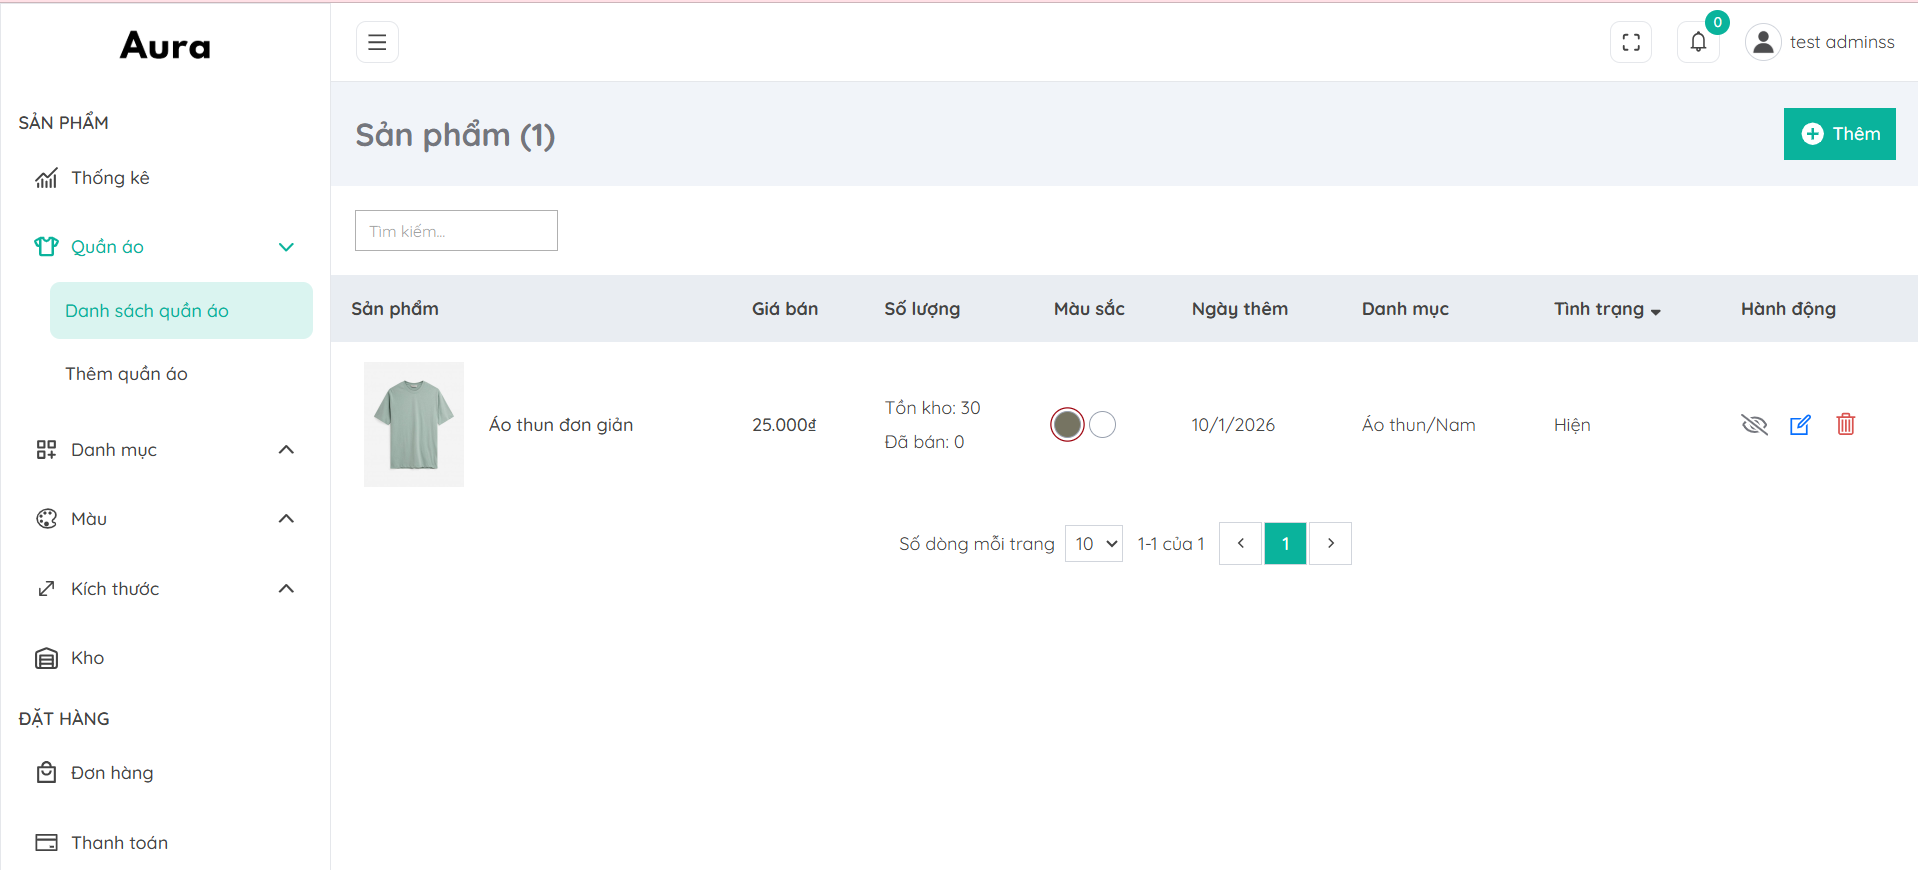
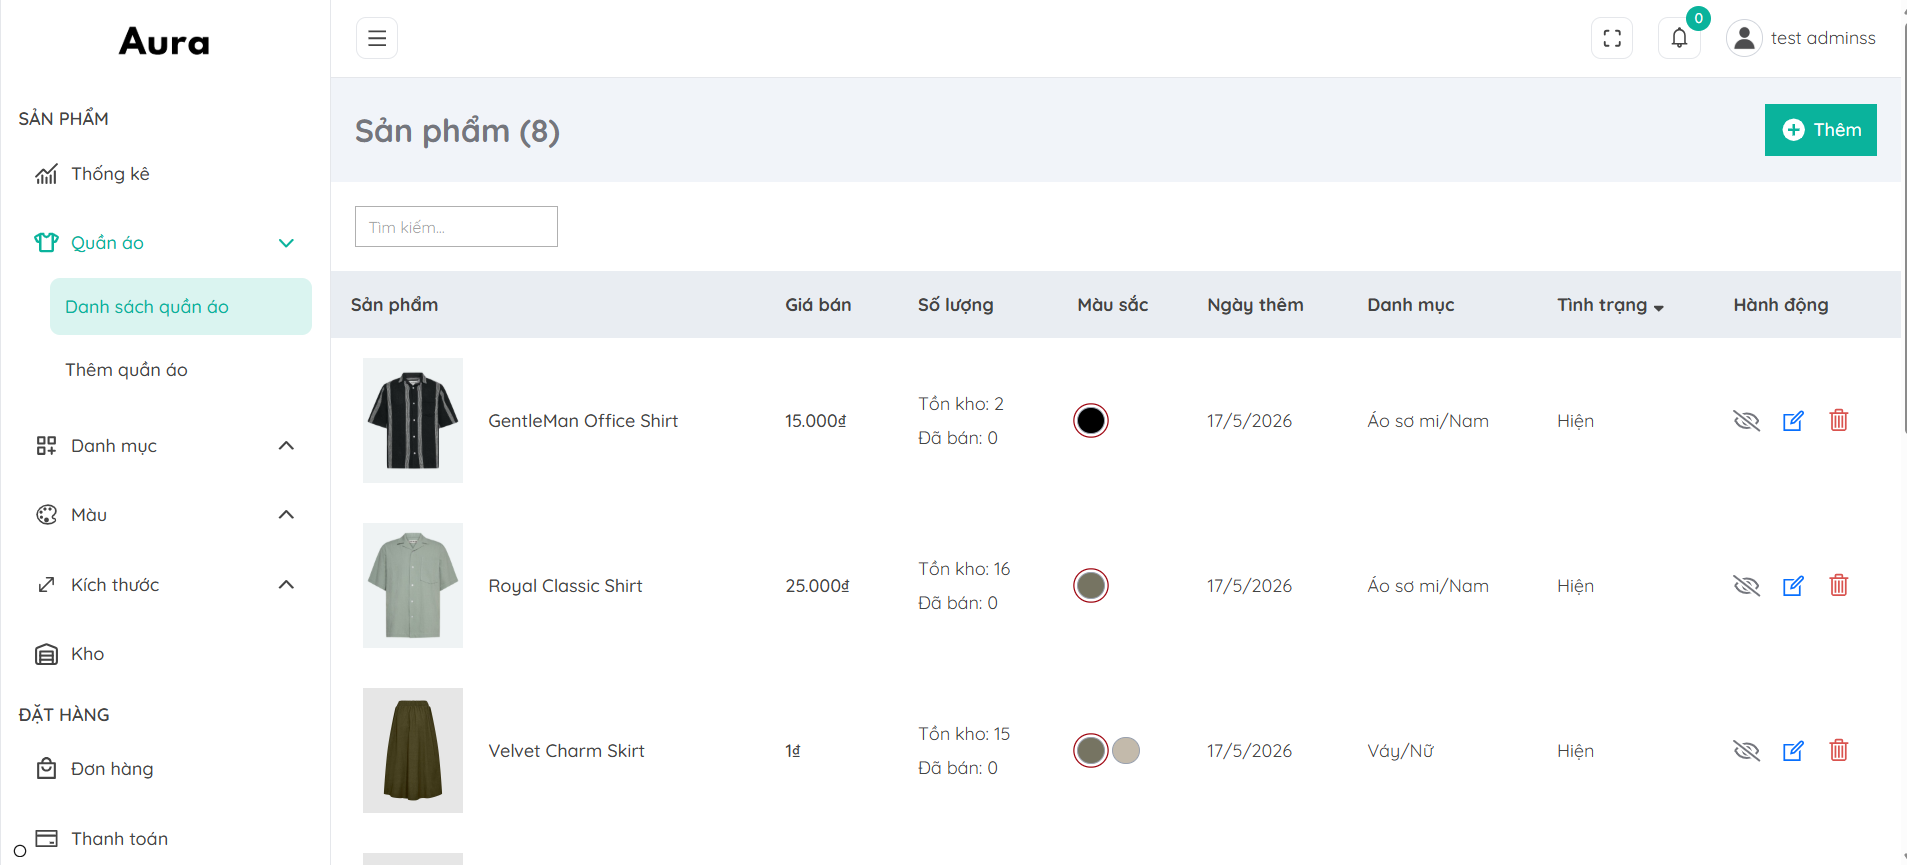
fix: Update readme

diff --git a/admin/src/components/product/ProductList.tsx b/admin/src/components/product/ProductList.tsx
@@ -141,7 +141,7 @@ function ProductList() {
                             <Image
                               src={variant.images[0]}
                               alt={product.name}
-                              className={`absolute inset-0 w-full h-full object-cover z-1  ${
+                              className={`absolute inset-0 w-full h-full object-contain z-1  ${
                                 variant.images.length > 1
                                   ? "group-hover:opacity-0"
                                   : ""
@@ -154,7 +154,7 @@ function ProductList() {
                             <Image
                               src={variant.images[1]}
                               alt={product.name}
-                              className="absolute inset-0 w-full h-full object-cover opacity-0 group-hover:opacity-100 z-2"
+                              className="absolute inset-0 w-full h-full object-contain opacity-0 group-hover:opacity-100 z-2"
                               loading="lazy"
                             />
                           )}
